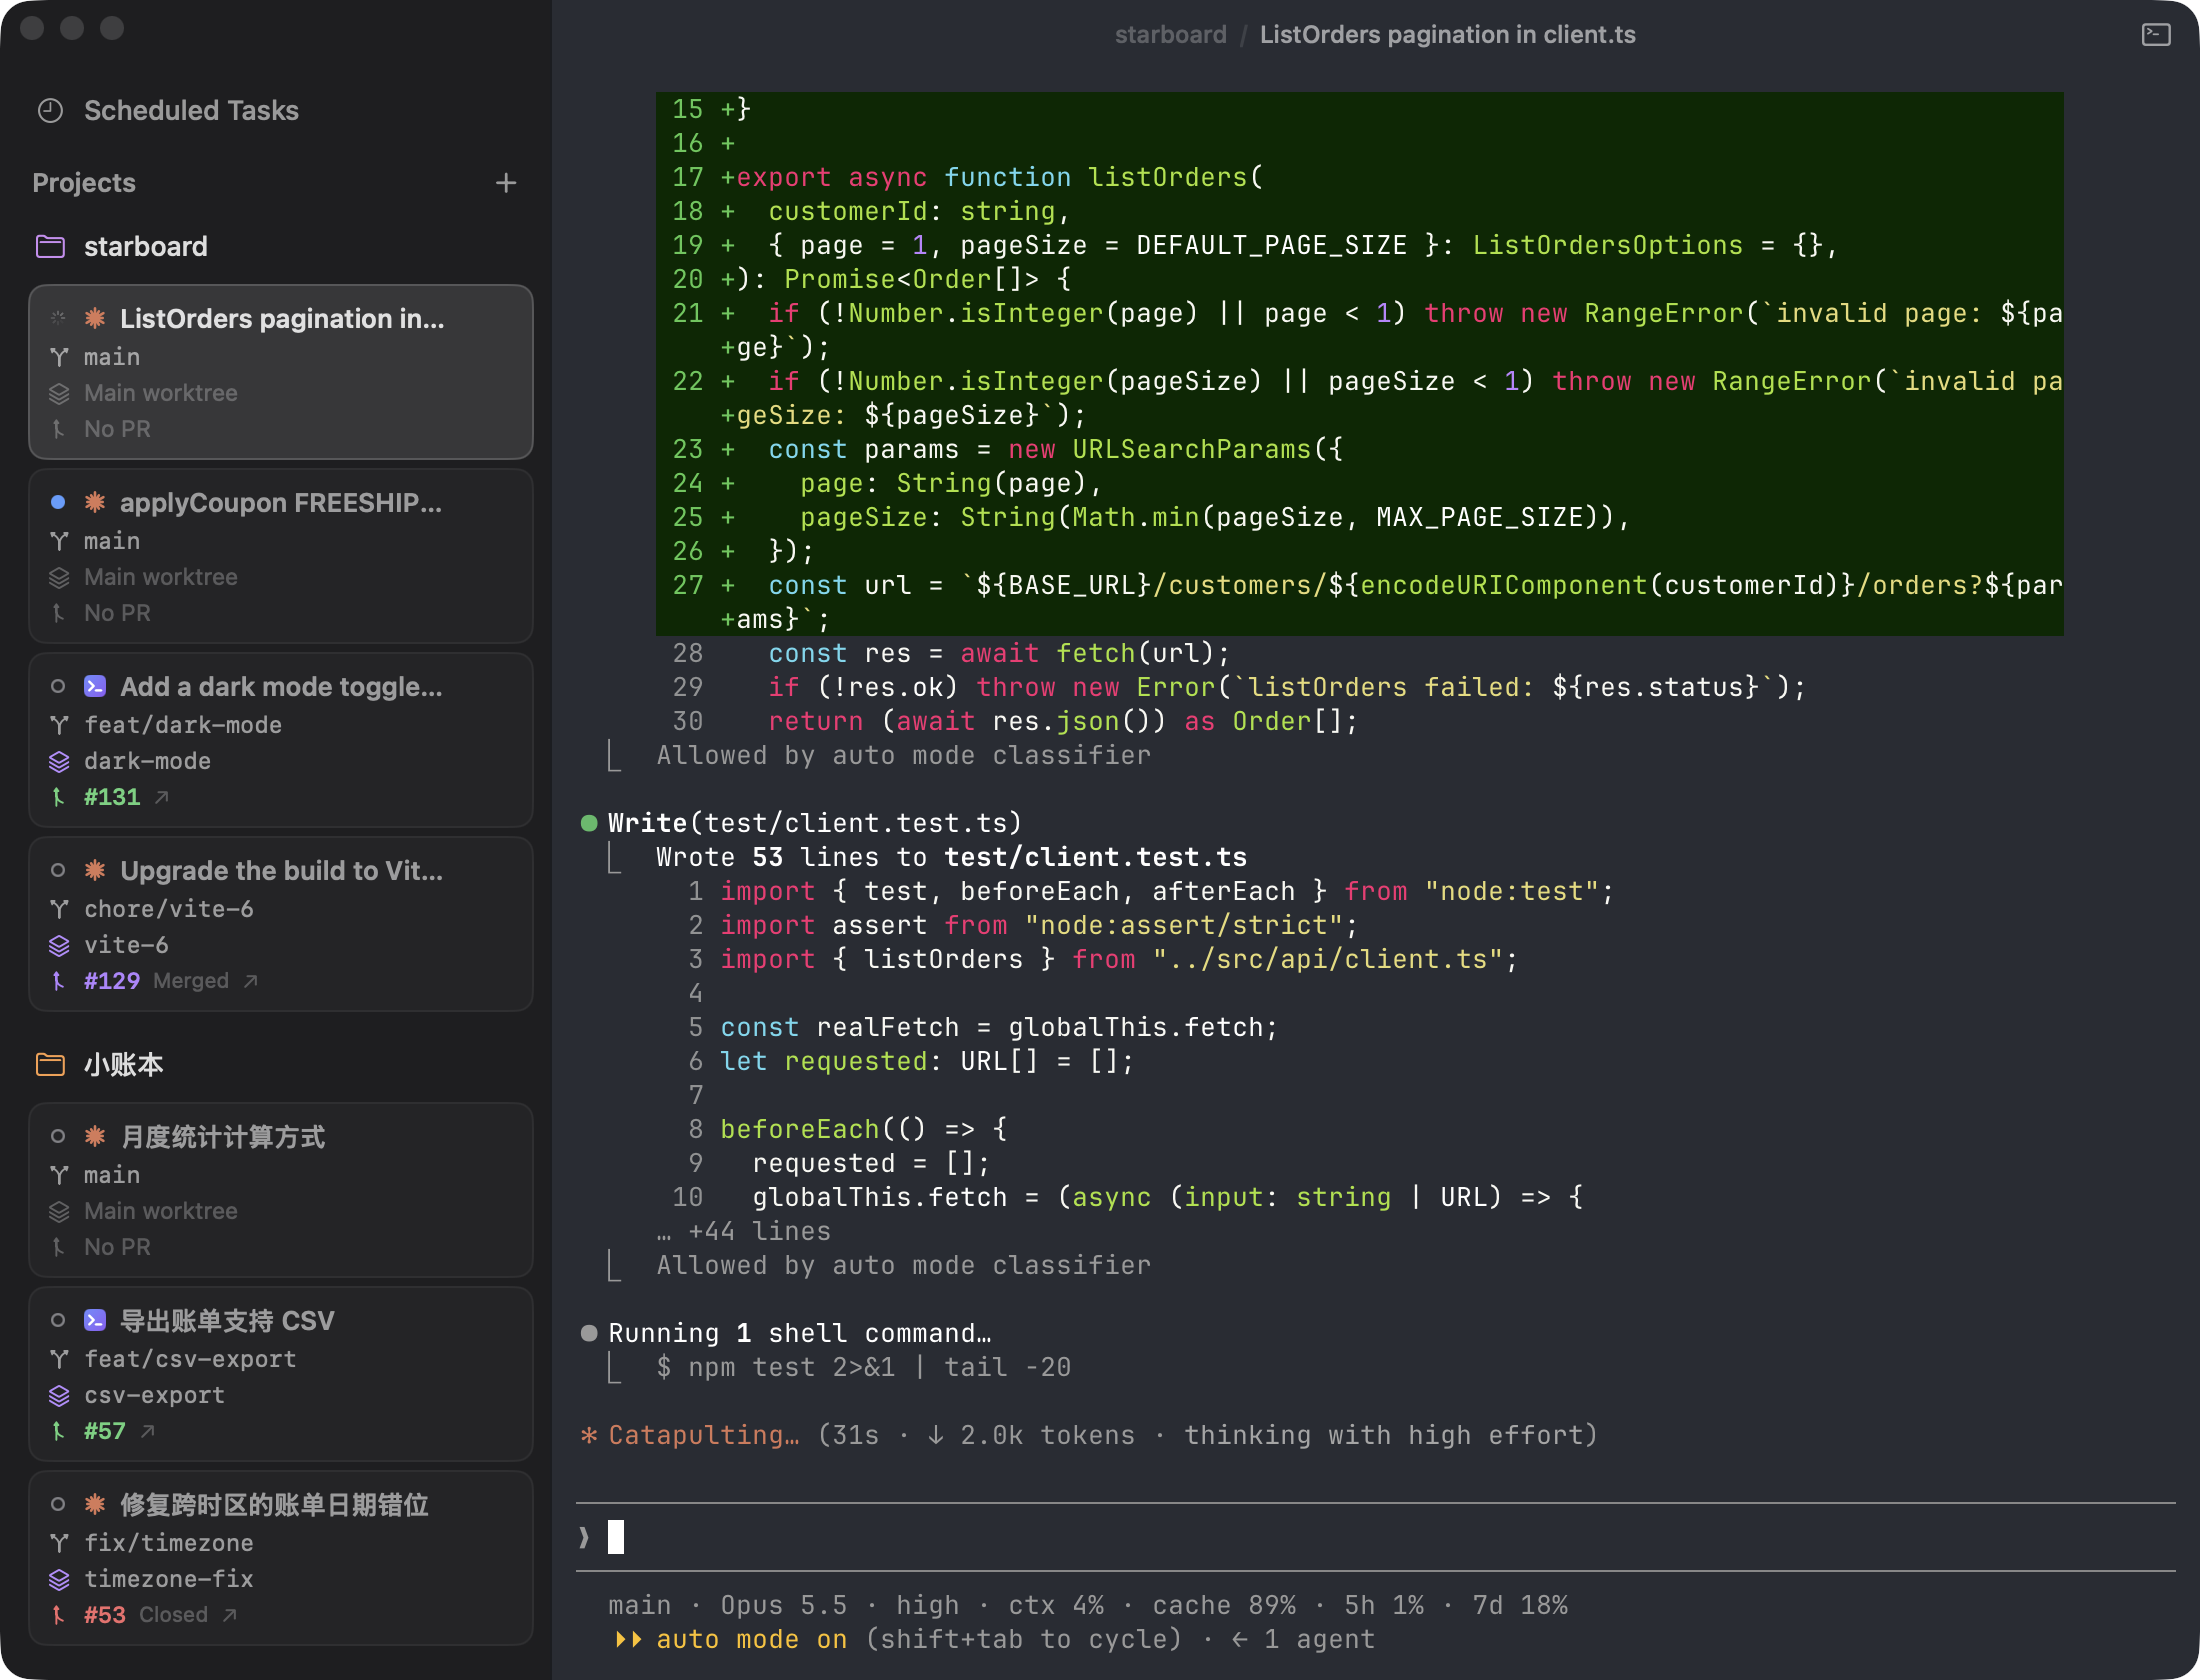
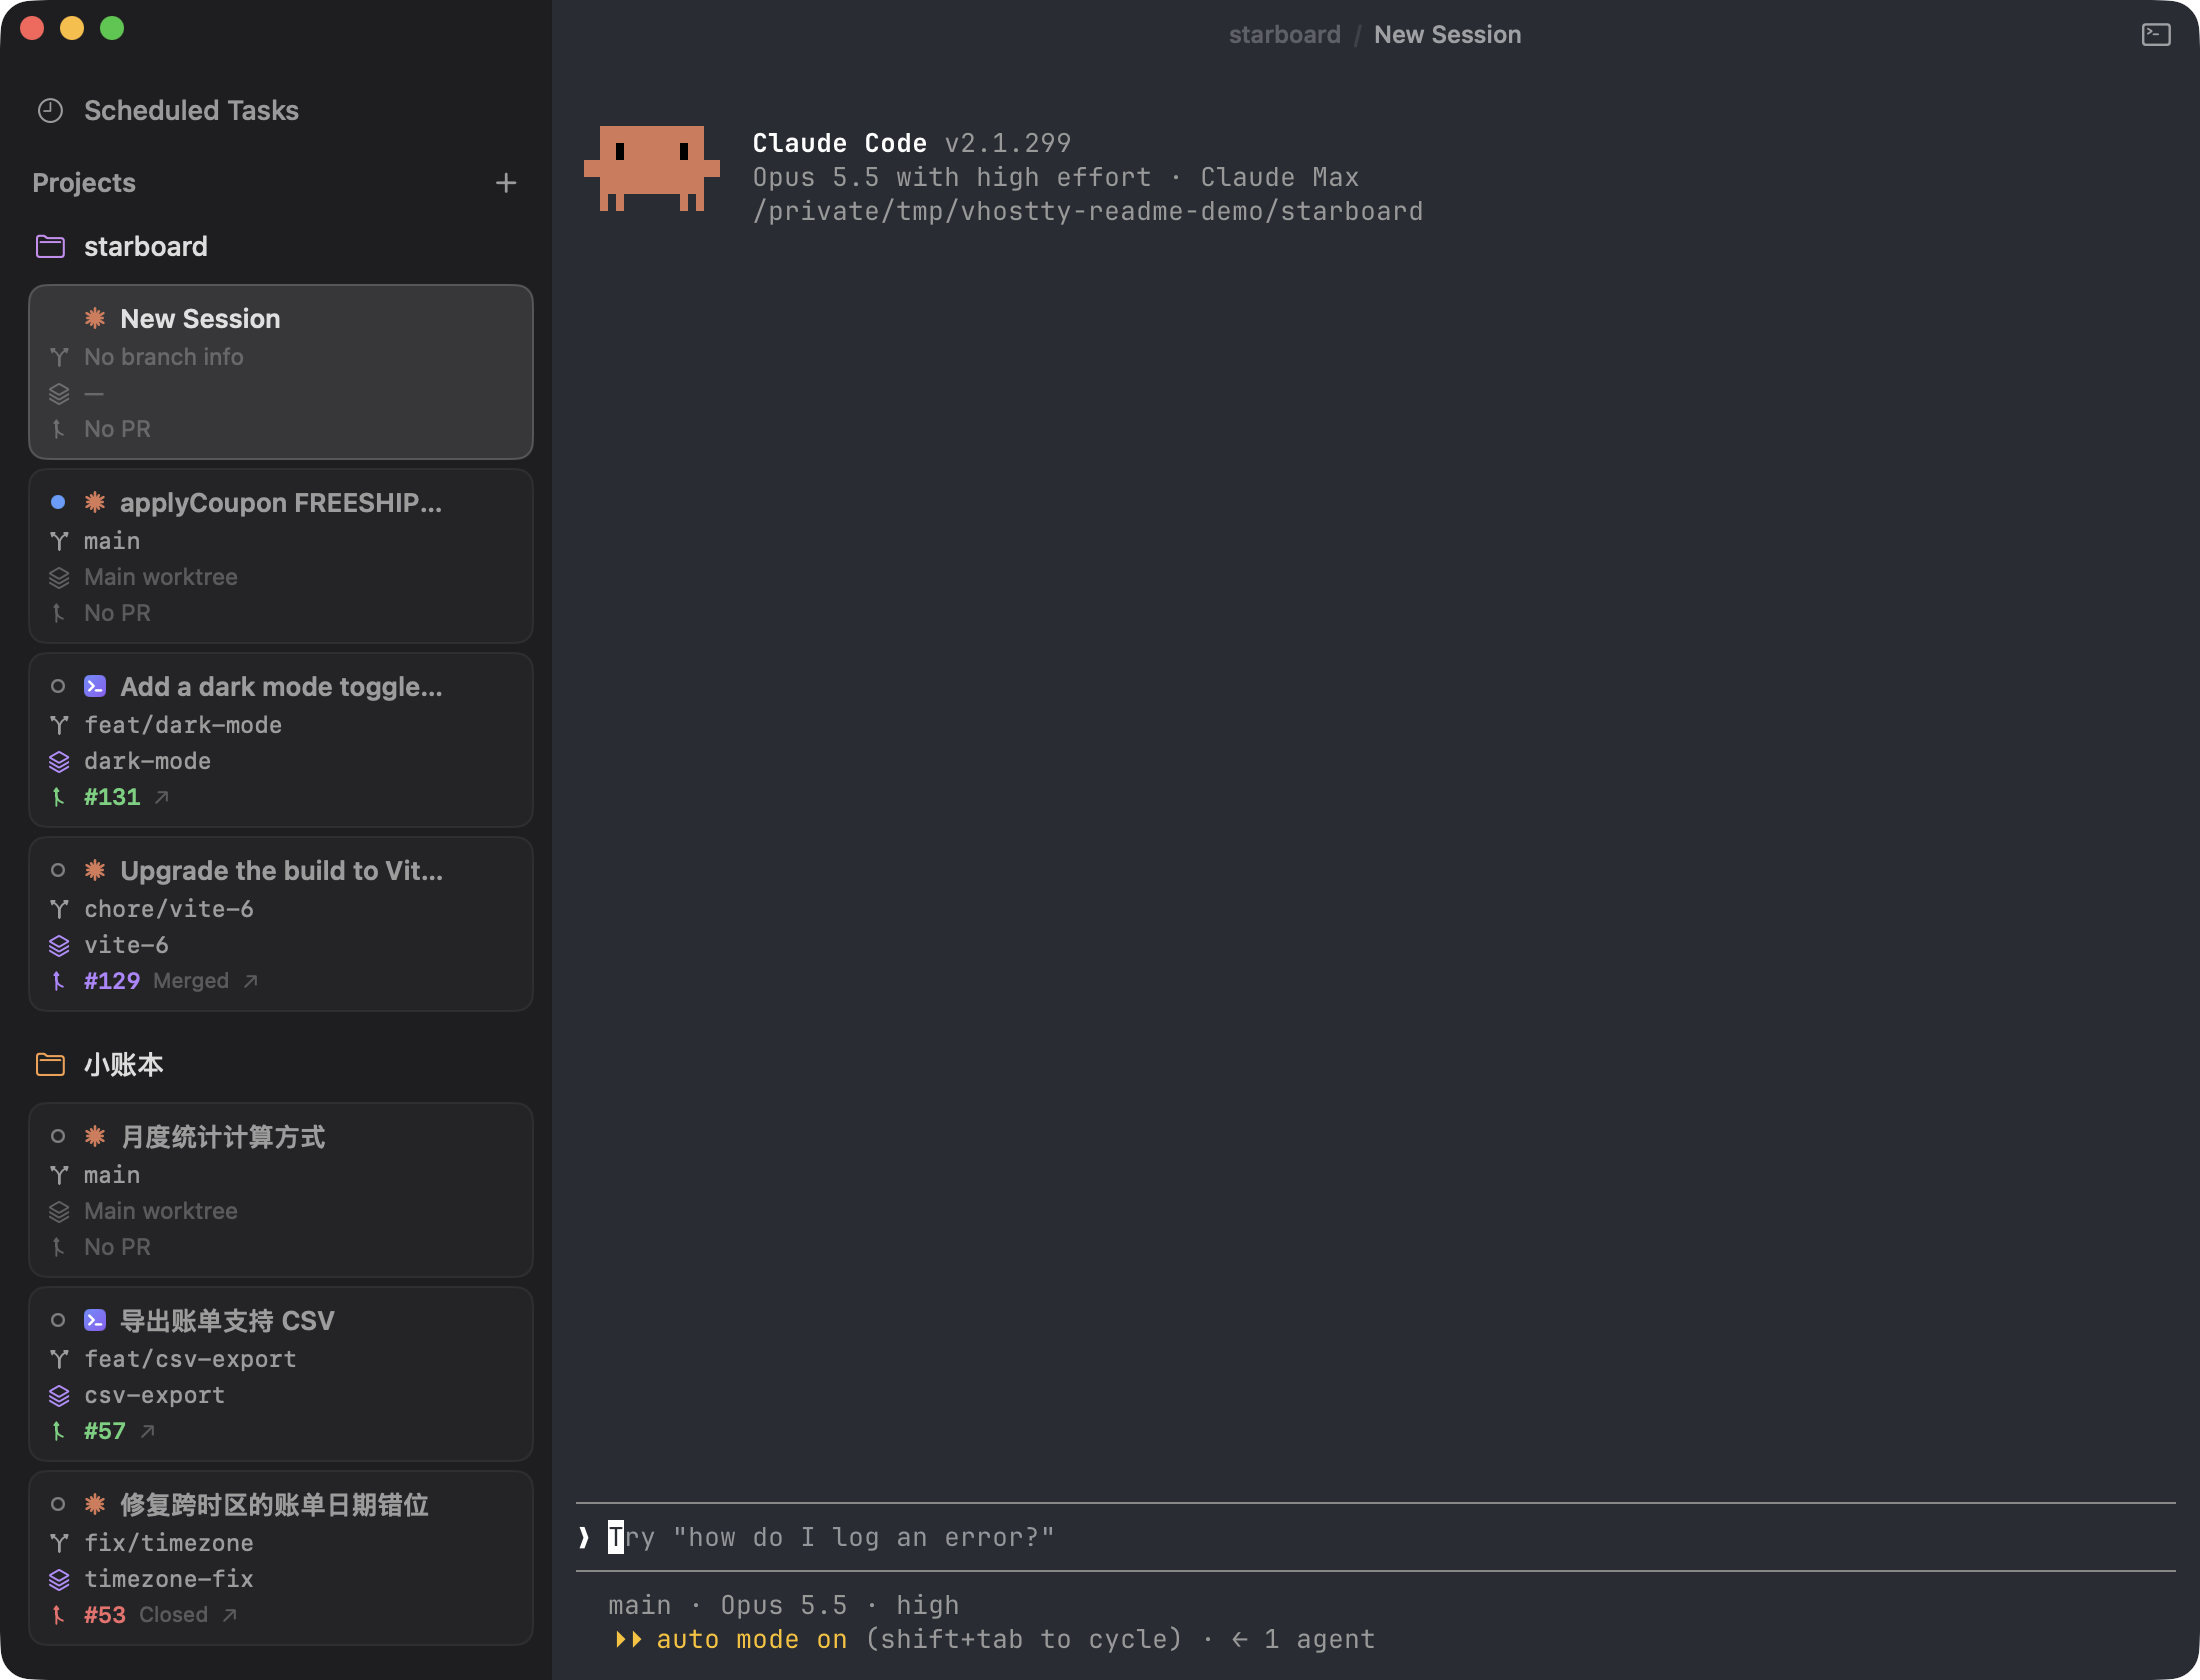
Use a freshly started Claude Code session as the README screenshot

diff --git a/scripts/readme-screenshot.py b/scripts/readme-screenshot.py
@@ -3,11 +3,11 @@
 
 Builds two demo projects from scratch (starboard, 小账本) with git worktrees,
 starts build/Vhostty.app against a scratch state dir and the debug driver
-(see DEVELOPER.md), and captures the window while a brand-new Claude Code
-session is working in the selected card:
+(see DEVELOPER.md), and captures the window with a brand-new Claude Code
+session, which hasn't been given anything to do yet, in the selected card:
 
   starboard
-    [selected] new Claude session, working on a real task
+    [selected] new Claude session, just started
     Claude session that finished in the background (blue dot)
     Codex card on feat/dark-mode with an open PR
     Claude card on chore/vite-6 with a merged PR
@@ -21,8 +21,7 @@ other cards are restored, not-started cards from state.json.
 Usage (run `make app` first; run it outside any sandbox):
   python3 scripts/readme-screenshot.py [--out docs/screenshot.png]
 
-Every frame taken while the main session works is kept in <demo>/frames, in
-case another one looks better than the one picked. Claude transcripts of the
+Claude transcripts of the
 demo projects (~/.claude/projects/-private-tmp-vhostty-readme-demo-*) are
 removed before and after the run so they never show up as history.
 """
@@ -43,7 +42,6 @@ ROOT = Path(__file__).resolve().parent.parent
 DEMO = Path("/private/tmp/vhostty-readme-demo")
 SUPPORT = DEMO / "support"
 SNAP = DEMO / "snap"
-FRAMES = DEMO / "frames"
 STARBOARD = DEMO / "starboard"
 ZHANGBEN = DEMO / "xiaozhangben"
 
@@ -57,9 +55,6 @@ ZHANGBEN_ID = "6B1E3C0A-5F0D-4C55-9E1B-2B7C8E0F4A02"
 
 # The background session: a short question that finishes before the capture.
 BACKGROUND_PROMPT = "Why does applyCoupon ignore FREESHIP codes? Just explain, don't change any files."
-# The selected session: long enough to show edits and tool runs while it works.
-MAIN_PROMPT = ("Add pagination to listOrders in src/api/client.ts (page and pageSize, "
-               "pageSize defaults to 20 and is capped at 100), and add tests for it")
 
 # --- demo repos ------------------------------------------------------------
 
@@ -97,27 +92,6 @@ export function applyCoupon(cart: Cart, code: string): Cart {
     return { ...cart, shipping: 0 };
   }
   return cart;
-}
-""",
-    "src/api/client.ts": """export interface Order {
-  id: string;
-  total: number;
-  status: "pending" | "paid" | "shipped";
-}
-
-const BASE_URL = process.env.STARBOARD_API ?? "https://api.starboard.test";
-
-export async function listOrders(customerId: string): Promise<Order[]> {
-  const url = `${BASE_URL}/customers/${encodeURIComponent(customerId)}/orders`;
-  const res = await fetch(url);
-  if (!res.ok) throw new Error(`listOrders failed: ${res.status}`);
-  return (await res.json()) as Order[];
-}
-
-export async function getOrder(id: string): Promise<Order> {
-  const res = await fetch(`${BASE_URL}/orders/${encodeURIComponent(id)}`);
-  if (!res.ok) throw new Error(`getOrder failed: ${res.status}`);
-  return (await res.json()) as Order;
 }
 """,
     "test/coupons.test.ts": """import { test } from "node:test";
@@ -336,39 +310,23 @@ def submit(tab_id, prompt):
     wait_for("Claude to start working", lambda: read_tabs().get(tab_id, {}).get("status") == "working", 60)
 
 
-def capture(main_id, background_id, min_work, timeout):
-    """Keeps every frame taken while the main session works and picks the first
-    one after `min_work` seconds that shows an edit and the background card's
-    blue dot. Falls back to the last working frame."""
-    FRAMES.mkdir(parents=True, exist_ok=True)
-    start = time.time()
-    last_png, chosen, n = None, None, 0
-    while time.time() - start < timeout:
-        state_file = SNAP / "state.txt"
-        stamp = state_file.stat().st_mtime
+def capture(main_id, background_id, out):
+    """Waits until the new session's input box is up and the background card
+    shows its blue dot, then saves a window image from that same tick."""
+    def ready():
         tabs = read_tabs()
-        main, bg = tabs.get(main_id, {}), tabs.get(background_id, {})
-        if main.get("status") != "working":
-            if last_png:
-                break
-            time.sleep(0.5)
-            continue
+        bg = tabs.get(background_id, {})
+        return bg.get("status") == "idle" and bg.get("attention") and tabs.get(main_id, {}).get("status") != "working"
+    wait_for("the background session to finish", ready, 180)
+    time.sleep(3)  # let Claude's start-up screen settle
+    state_file = SNAP / "state.txt"
+    while True:
+        stamp = state_file.stat().st_mtime
         # window.png is written just before state.txt in the same tick.
-        frame = FRAMES / f"{n:03d}.png"
-        shutil.copy(SNAP / "window.png", frame)
-        if state_file.stat().st_mtime != stamp:
-            continue
-        n += 1
-        last_png = frame
-        ready = (time.time() - start >= min_work
-                 and re.search(r"\b(Update|Write)\(", main["text"])
-                 and bg.get("status") == "idle" and bg.get("attention"))
-        if ready:
-            chosen = frame
-            break
-        while state_file.stat().st_mtime == stamp:
-            time.sleep(0.3)
-    return chosen or last_png
+        shutil.copy(SNAP / "window.png", out)
+        if state_file.stat().st_mtime == stamp and ready():
+            return
+        time.sleep(0.5)
 
 
 # --- app lifecycle -------------------------------------------------------------
@@ -402,8 +360,6 @@ def main():
     ap = argparse.ArgumentParser(description=__doc__, formatter_class=argparse.RawDescriptionHelpFormatter)
     ap.add_argument("--app", default=str(ROOT / "build/Vhostty.app"))
     ap.add_argument("--out", default=str(ROOT / "docs/screenshot.png"))
-    ap.add_argument("--min-work", type=float, default=45, help="seconds the main session works before the capture")
-    ap.add_argument("--timeout", type=float, default=300)
     args = ap.parse_args()
 
     binary = Path(args.app) / "Contents/MacOS/Vhostty"
@@ -428,12 +384,8 @@ def main():
         wait_until_ready(background)
         submit(background, BACKGROUND_PROMPT)
         main_tab = new_claude_session()
-        submit(main_tab, MAIN_PROMPT)
-        frame = capture(main_tab, background, args.min_work, args.timeout)
-        if not frame:
-            sys.exit("the main session never worked long enough to capture")
-        shutil.copy(frame, args.out)
-        print(f"wrote {args.out} (from {frame}; other frames in {FRAMES})")
+        capture(main_tab, background, args.out)
+        print(f"wrote {args.out}")
     finally:
         app.send_signal(signal.SIGTERM)
         try:

diff --git a/DEVELOPER.md b/DEVELOPER.md
@@ -130,7 +130,7 @@ git tag v0.2.0 && git push origin v0.2.0
 
 README 有英文（`README.md`）和中文（`README.zh-CN.md`）两份，改功能、快捷键或构建步骤时两份要一起改。
 
-README 的截图（`docs/screenshot.png`）用 `python3 scripts/readme-screenshot.py` 重新生成（先 `make app`，在沙箱外运行）。脚本在 `/private/tmp/vhostty-readme-demo` 新建两个演示项目（starboard、小账本，带 worktree），用临时状态目录和 debug driver 启动 `build/Vhostty.app`，起两个真实的 Claude 会话：一个回答简短问题后在后台完成（蓝点），另一个是新会话，在它工作时截图；其余卡片是 state.json 里未启动的卡片（分支、worktree、PR 都写好了）。工作期间的每一帧都留在 `frames/`，可以另挑一张。窗口大小靠命令行参数传入，结束后把已安装版本保存的窗口位置还原；运行前后都会删掉演示项目在 `~/.claude/projects` 下的会话记录，免得出现在历史里。演示目录首次运行时脚本会替 Claude 确认信任该文件夹。
+README 的截图（`docs/screenshot.png`）用 `python3 scripts/readme-screenshot.py` 重新生成（先 `make app`，在沙箱外运行）。脚本在 `/private/tmp/vhostty-readme-demo` 新建两个演示项目（starboard、小账本，带 worktree），用临时状态目录和 debug driver 启动 `build/Vhostty.app`，起两个真实的 Claude 会话：一个回答简短问题后在后台完成（蓝点），另一个是刚打开、还没发过消息的新会话，等它的输入框出来后截图；其余卡片是 state.json 里未启动的卡片（分支、worktree、PR 都写好了）。窗口大小靠命令行参数传入，结束后把已安装版本保存的窗口位置还原；运行前后都会删掉演示项目在 `~/.claude/projects` 下的会话记录，免得出现在历史里。演示目录首次运行时脚本会替 Claude 确认信任该文件夹。
 
 ## 多语言
 

diff --git a/README.md b/README.md
@@ -12,7 +12,7 @@ The terminal engine is [Ghostty](https://ghostty.org) (libghostty), and it uses 
 
 > Vhostty = **V**ertical + G**hostty**: Ghostty's tabs, turned on their side and moved into a sidebar.
 
-<p align="center"><img src="docs/screenshot.png" alt="Vhostty with two projects: Claude Code and Codex session cards showing status, branch, worktree and PR, with a new Claude Code session working on the right"></p>
+<p align="center"><img src="docs/screenshot.png" alt="Vhostty with two projects: Claude Code and Codex session cards showing status, branch, worktree and PR, with a freshly started Claude Code session on the right"></p>
 
 The interface follows your system language (English or Simplified Chinese).
 

diff --git a/README.zh-CN.md b/README.zh-CN.md
@@ -12,7 +12,7 @@ Vhostty 是一个 macOS 原生终端，专门用来同时跑好几个 Claude Cod
 
 > Vhostty = **V**ertical + G**hostty**：把 Ghostty 的标签页竖过来，放进左侧栏。
 
-<p align="center"><img src="docs/screenshot.png" alt="Vhostty 截图：两个项目，Claude Code 和 Codex 的会话卡片上显示状态、分支、worktree 和 PR，右边是一个正在工作的新 Claude Code 会话"></p>
+<p align="center"><img src="docs/screenshot.png" alt="Vhostty 截图：两个项目，Claude Code 和 Codex 的会话卡片上显示状态、分支、worktree 和 PR，右边是一个刚打开的新 Claude Code 会话"></p>
 
 ## 功能
 
